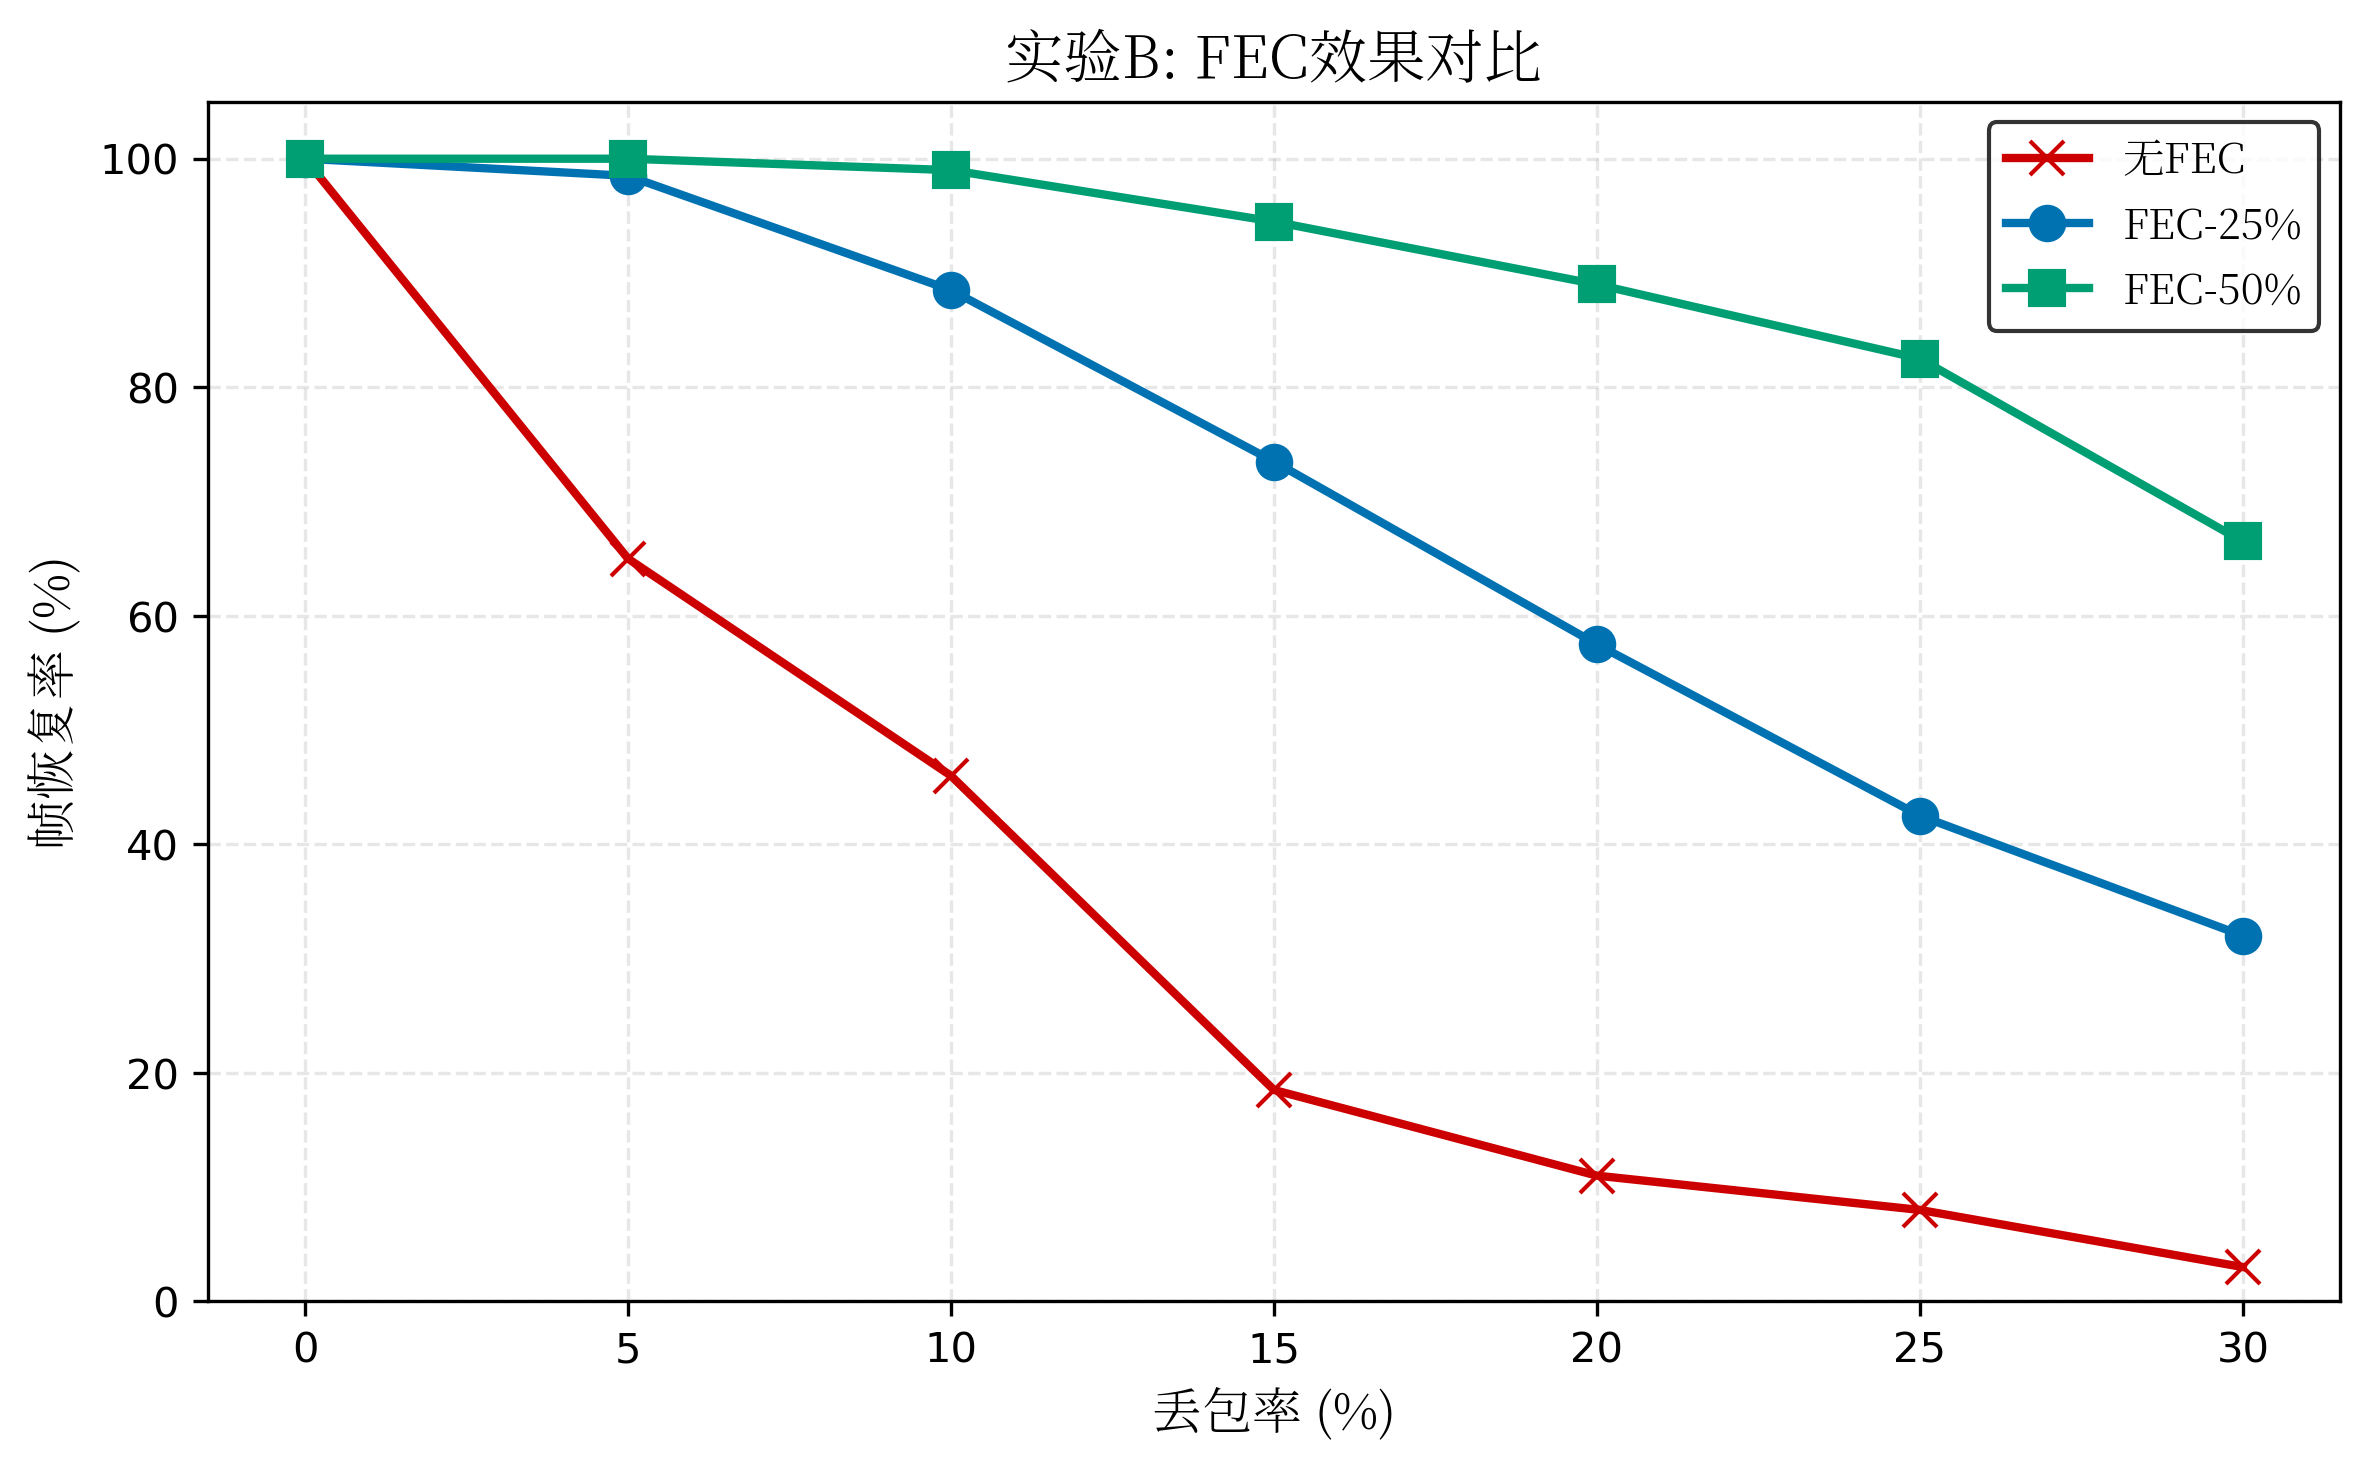
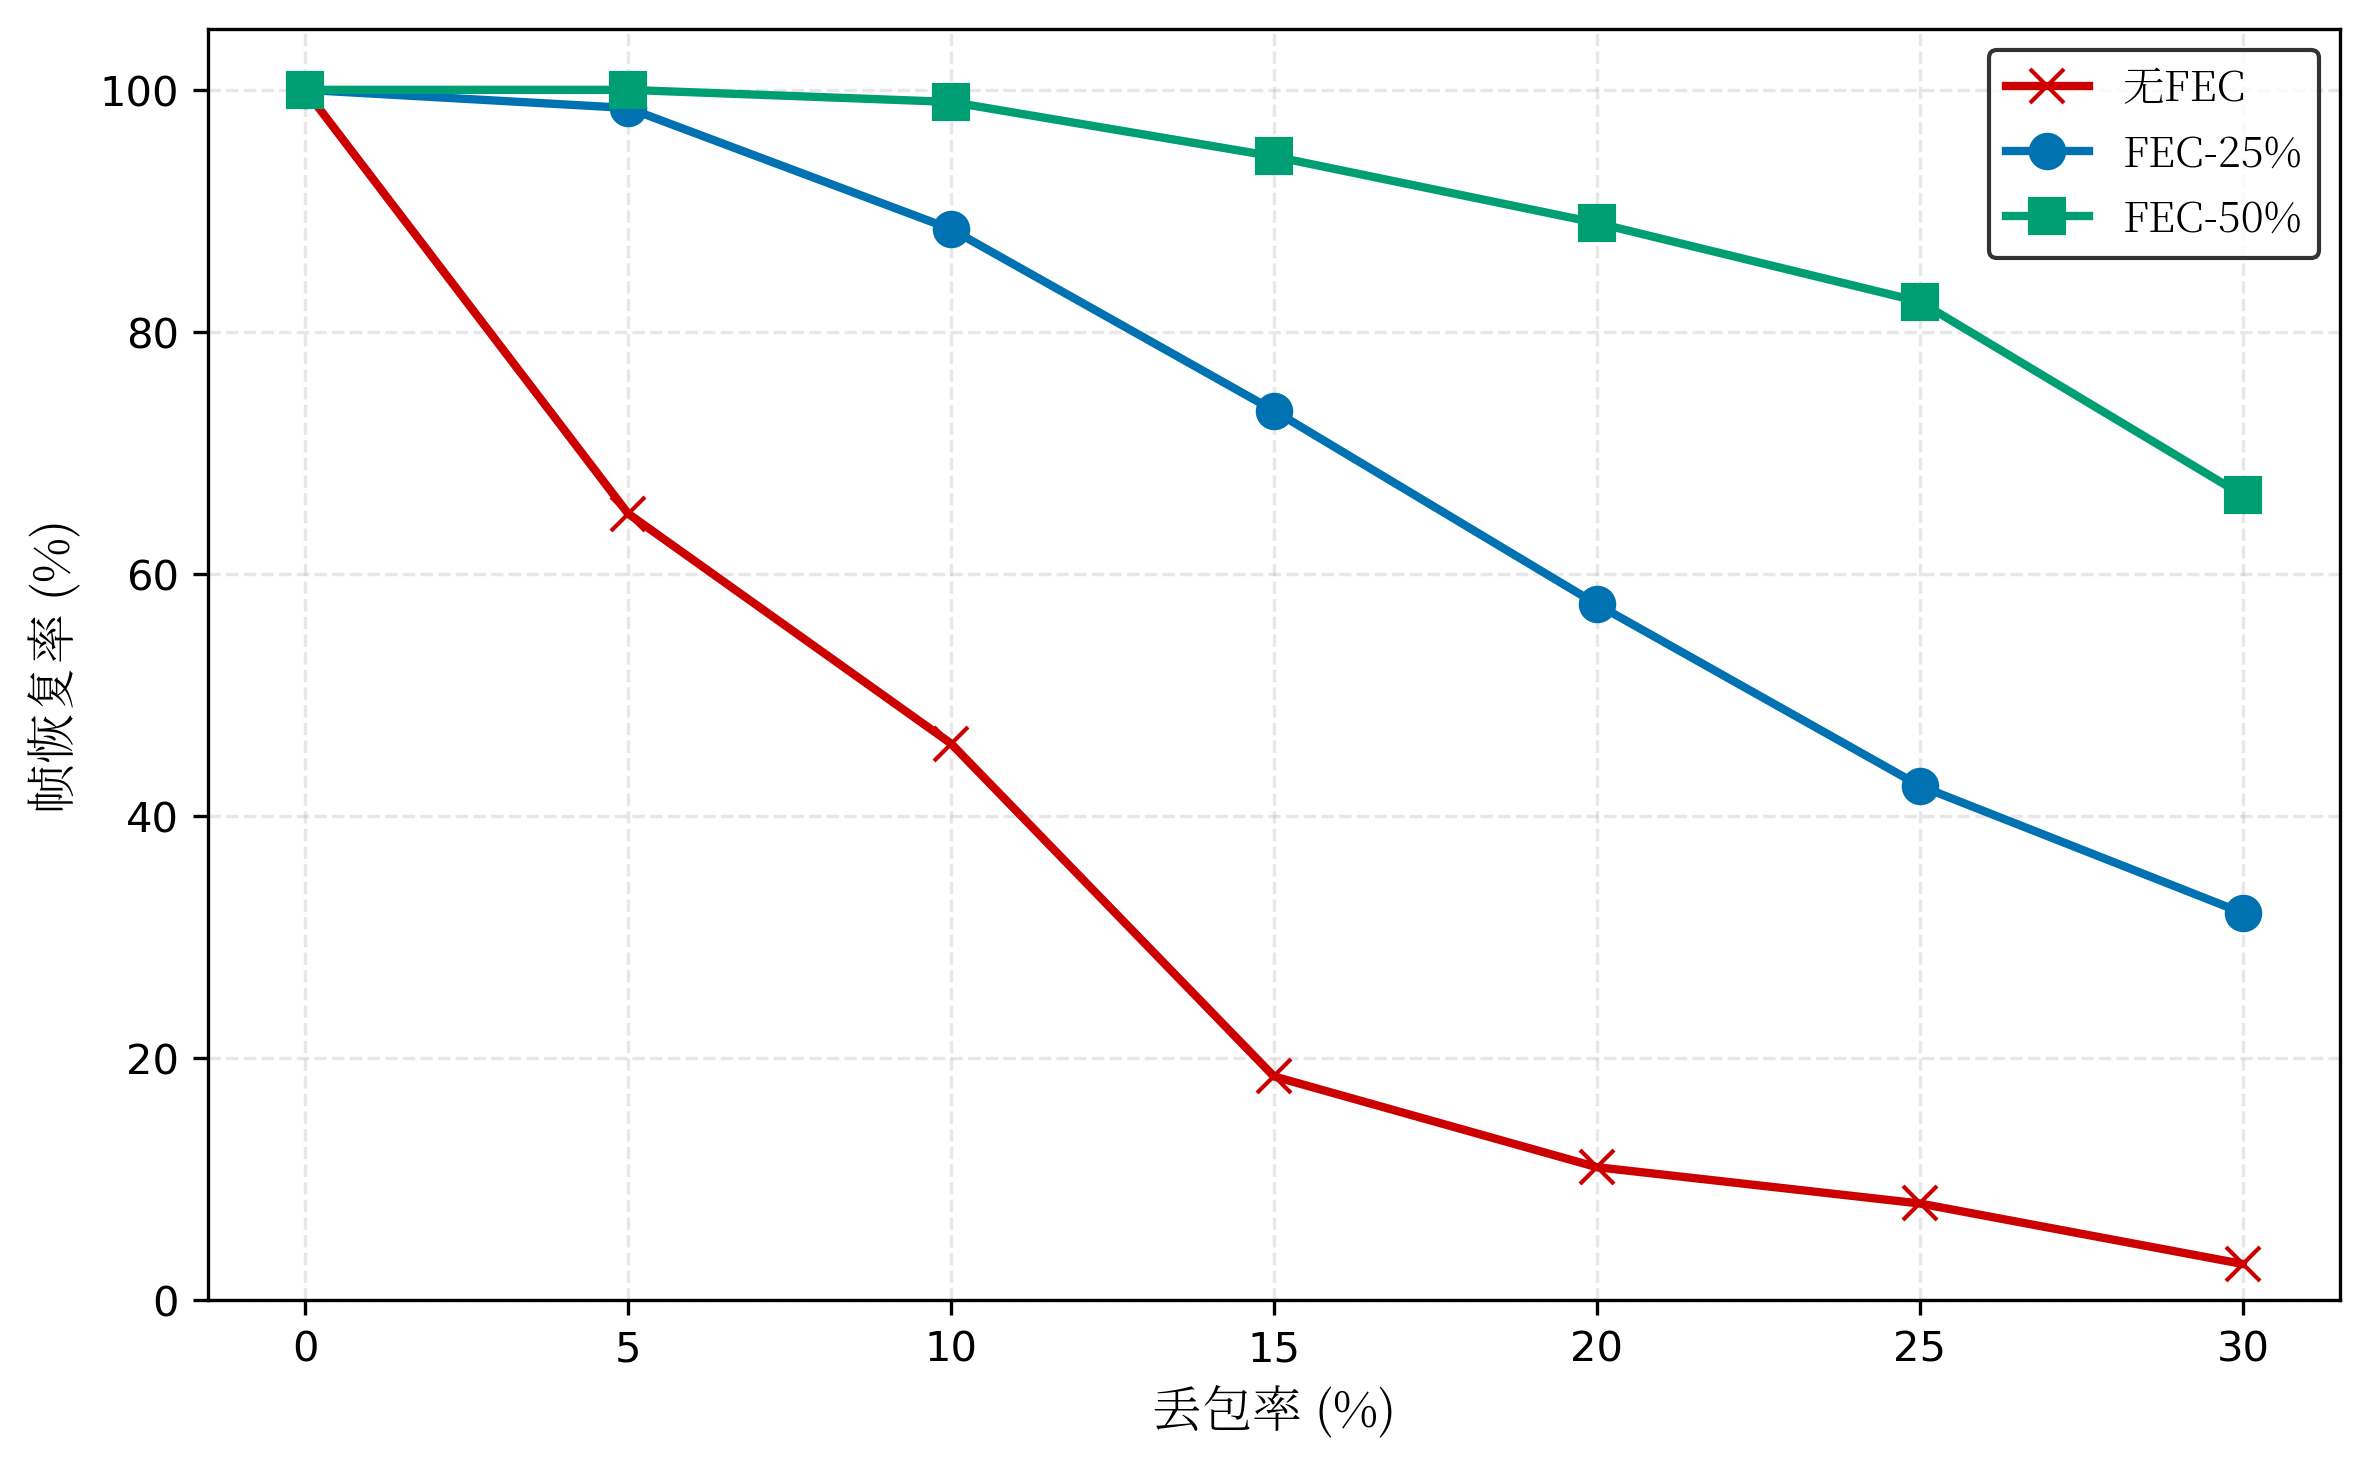
删去作图标题

diff --git a/experiments/plot.py b/experiments/plot.py
@@ -46,7 +46,6 @@ def plot_exp_a():
     
     ax.set_xlabel('丢包数量', fontproperties=CFONT, fontsize=12)
     ax.set_ylabel('恢复成功率 (%)', fontproperties=CFONT, fontsize=12)
-    ax.set_title('实验A: FEC丢包恢复能力', fontproperties=CFONT, fontsize=14)
     ax.set_ylim(-5, 105)
     ax.legend(prop=CFONT, frameon=True, edgecolor='black')
     ax.grid(True, alpha=0.3, linestyle='--')
@@ -80,7 +79,7 @@ def plot_exp_f():
     
     ax.set_xlabel('丢包率 (%)', fontproperties=CFONT, fontsize=12)
     ax.set_ylabel('帧恢复率 (%)', fontproperties=CFONT, fontsize=12)
-    ax.set_title('(a) 恢复率对比', fontproperties=CFONT, fontsize=14)
+    ax.set_title('(a) 恢复率', fontproperties=CFONT, fontsize=12)
     ax.set_ylim(80, 102)
     ax.legend(prop=CFONT, frameon=True, edgecolor='black')
     ax.grid(True, alpha=0.3, linestyle='--')
@@ -94,7 +93,7 @@ def plot_exp_f():
     
     ax.set_xlabel('丢包率 (%)', fontproperties=CFONT, fontsize=12)
     ax.set_ylabel('带宽开销 (%)', fontproperties=CFONT, fontsize=12)
-    ax.set_title('(b) 带宽开销对比', fontproperties=CFONT, fontsize=14)
+    ax.set_title('(b) 带宽开销', fontproperties=CFONT, fontsize=12)
     ax.legend(prop=CFONT, frameon=True, edgecolor='black')
     ax.grid(True, alpha=0.3, linestyle='--')
     
@@ -124,7 +123,7 @@ def plot_exp_d():
     
     ax.set_xlabel('帧大小 (KB)', fontproperties=CFONT, fontsize=12)
     ax.set_ylabel('时间 (ms)', fontproperties=CFONT, fontsize=12)
-    ax.set_title('(a) 编解码时间', fontproperties=CFONT, fontsize=14)
+    ax.set_title('(a) 编解码时间', fontproperties=CFONT, fontsize=12)
     ax.legend(prop=CFONT, frameon=True, edgecolor='black', fontsize=9)
     ax.grid(True, alpha=0.3, linestyle='--')
     ax.set_xscale('log')
@@ -141,7 +140,7 @@ def plot_exp_d():
     
     ax.set_xlabel('帧大小 (KB)', fontproperties=CFONT, fontsize=12)
     ax.set_ylabel('吞吐量 (MB/s)', fontproperties=CFONT, fontsize=12)
-    ax.set_title('(b) 编解码吞吐量', fontproperties=CFONT, fontsize=14)
+    ax.set_title('(b) 编解码吞吐量', fontproperties=CFONT, fontsize=12)
     ax.legend(prop=CFONT, frameon=True, edgecolor='black', fontsize=9)
     ax.grid(True, alpha=0.3, linestyle='--')
     ax.set_xscale('log')
@@ -164,7 +163,6 @@ def plot_exp_c():
     ax.axhline(y=100, color='gray', linestyle='--', linewidth=1)
     ax.set_xlabel('冗余率', fontproperties=CFONT, fontsize=12)
     ax.set_ylabel('带宽占比 (%)', fontproperties=CFONT, fontsize=12)
-    ax.set_title('实验C: FEC带宽开销', fontproperties=CFONT, fontsize=14)
     ax.set_ylim(0, 220)
     
     # 标注数值
@@ -197,7 +195,6 @@ def plot_exp_b():
     
     ax.set_xlabel('丢包率 (%)', fontproperties=CFONT, fontsize=12)
     ax.set_ylabel('帧恢复率 (%)', fontproperties=CFONT, fontsize=12)
-    ax.set_title('实验B: FEC效果对比', fontproperties=CFONT, fontsize=14)
     ax.set_ylim(0, 105)
     ax.legend(prop=CFONT, frameon=True, edgecolor='black')
     ax.grid(True, alpha=0.3, linestyle='--')
@@ -231,7 +228,6 @@ def plot_exp_e():
     
     ax.set_xlabel('分辨率', fontproperties=CFONT, fontsize=12)
     ax.set_ylabel('延迟 (ms)', fontproperties=CFONT, fontsize=12)
-    ax.set_title('实验E: 端到端延迟分解', fontproperties=CFONT, fontsize=14)
     ax.set_xticks(x)
     ax.set_xticklabels(scenarios)
     ax.legend(prop=CFONT, frameon=True, edgecolor='black')
